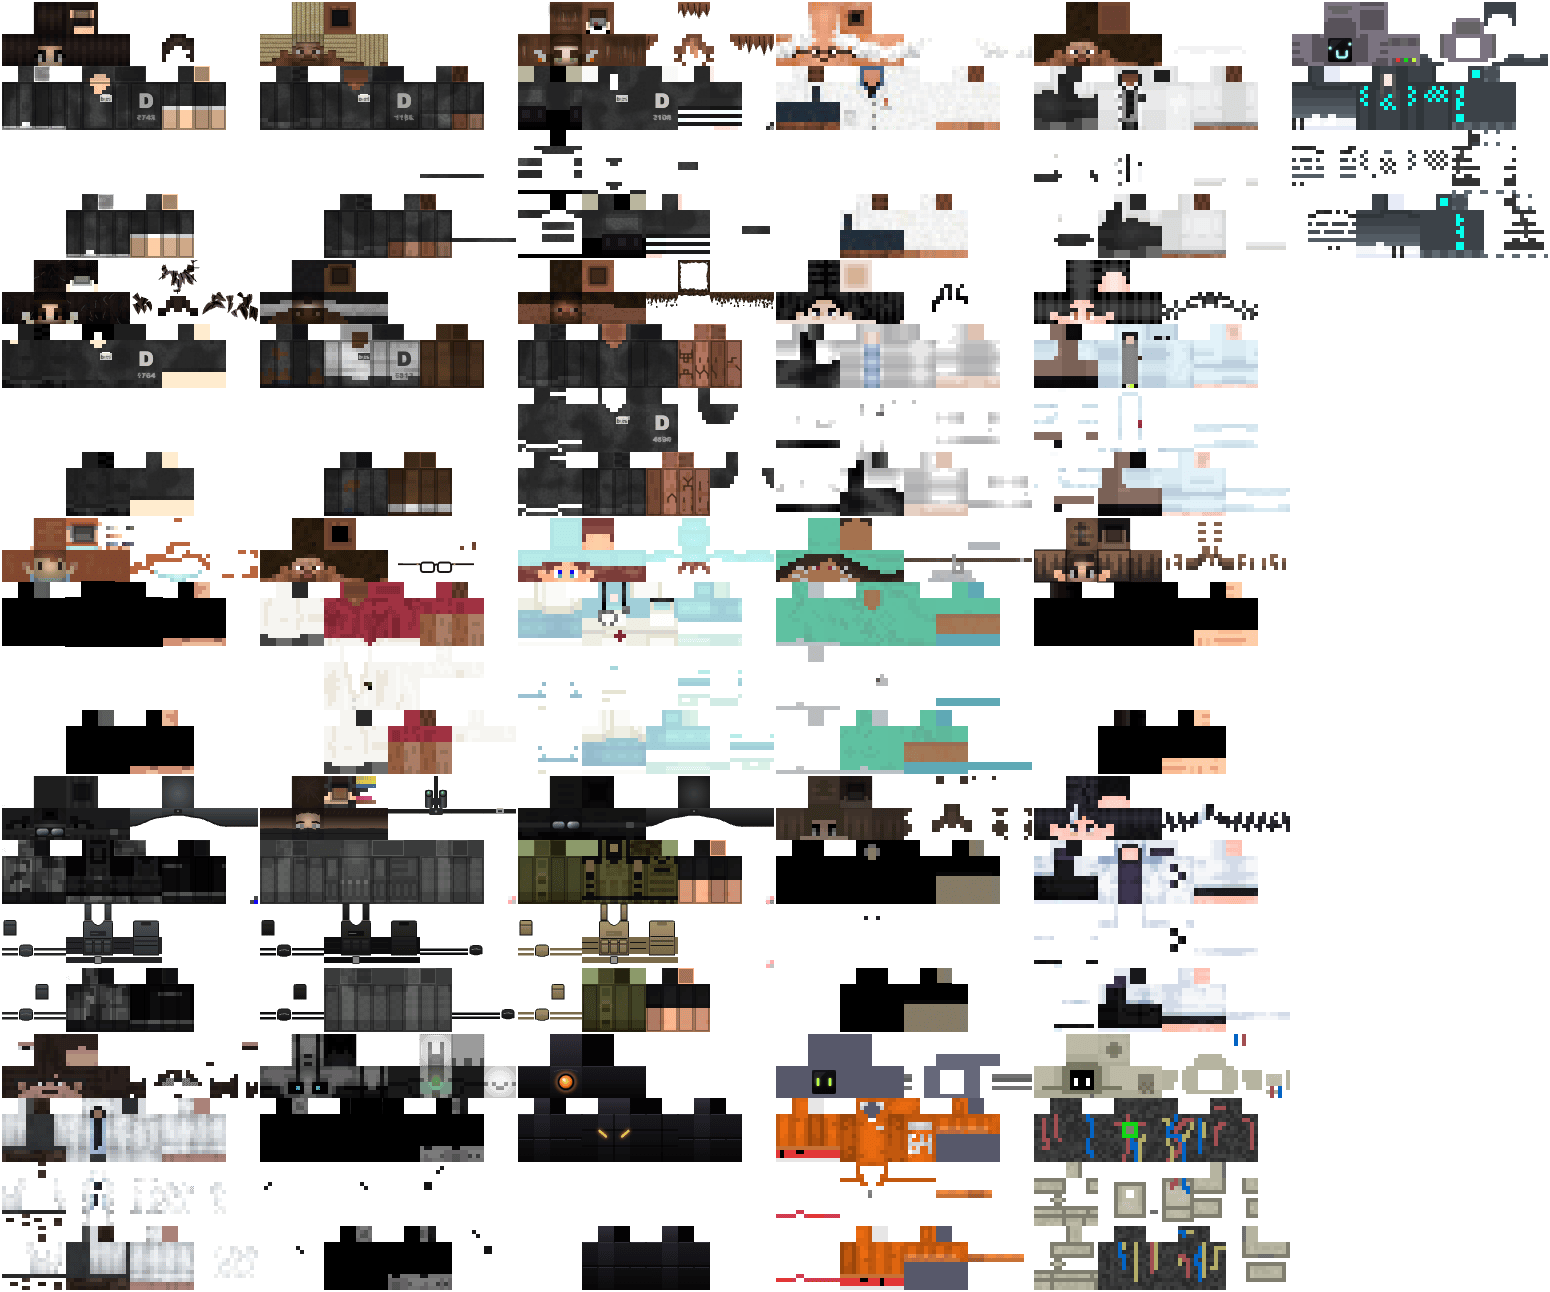
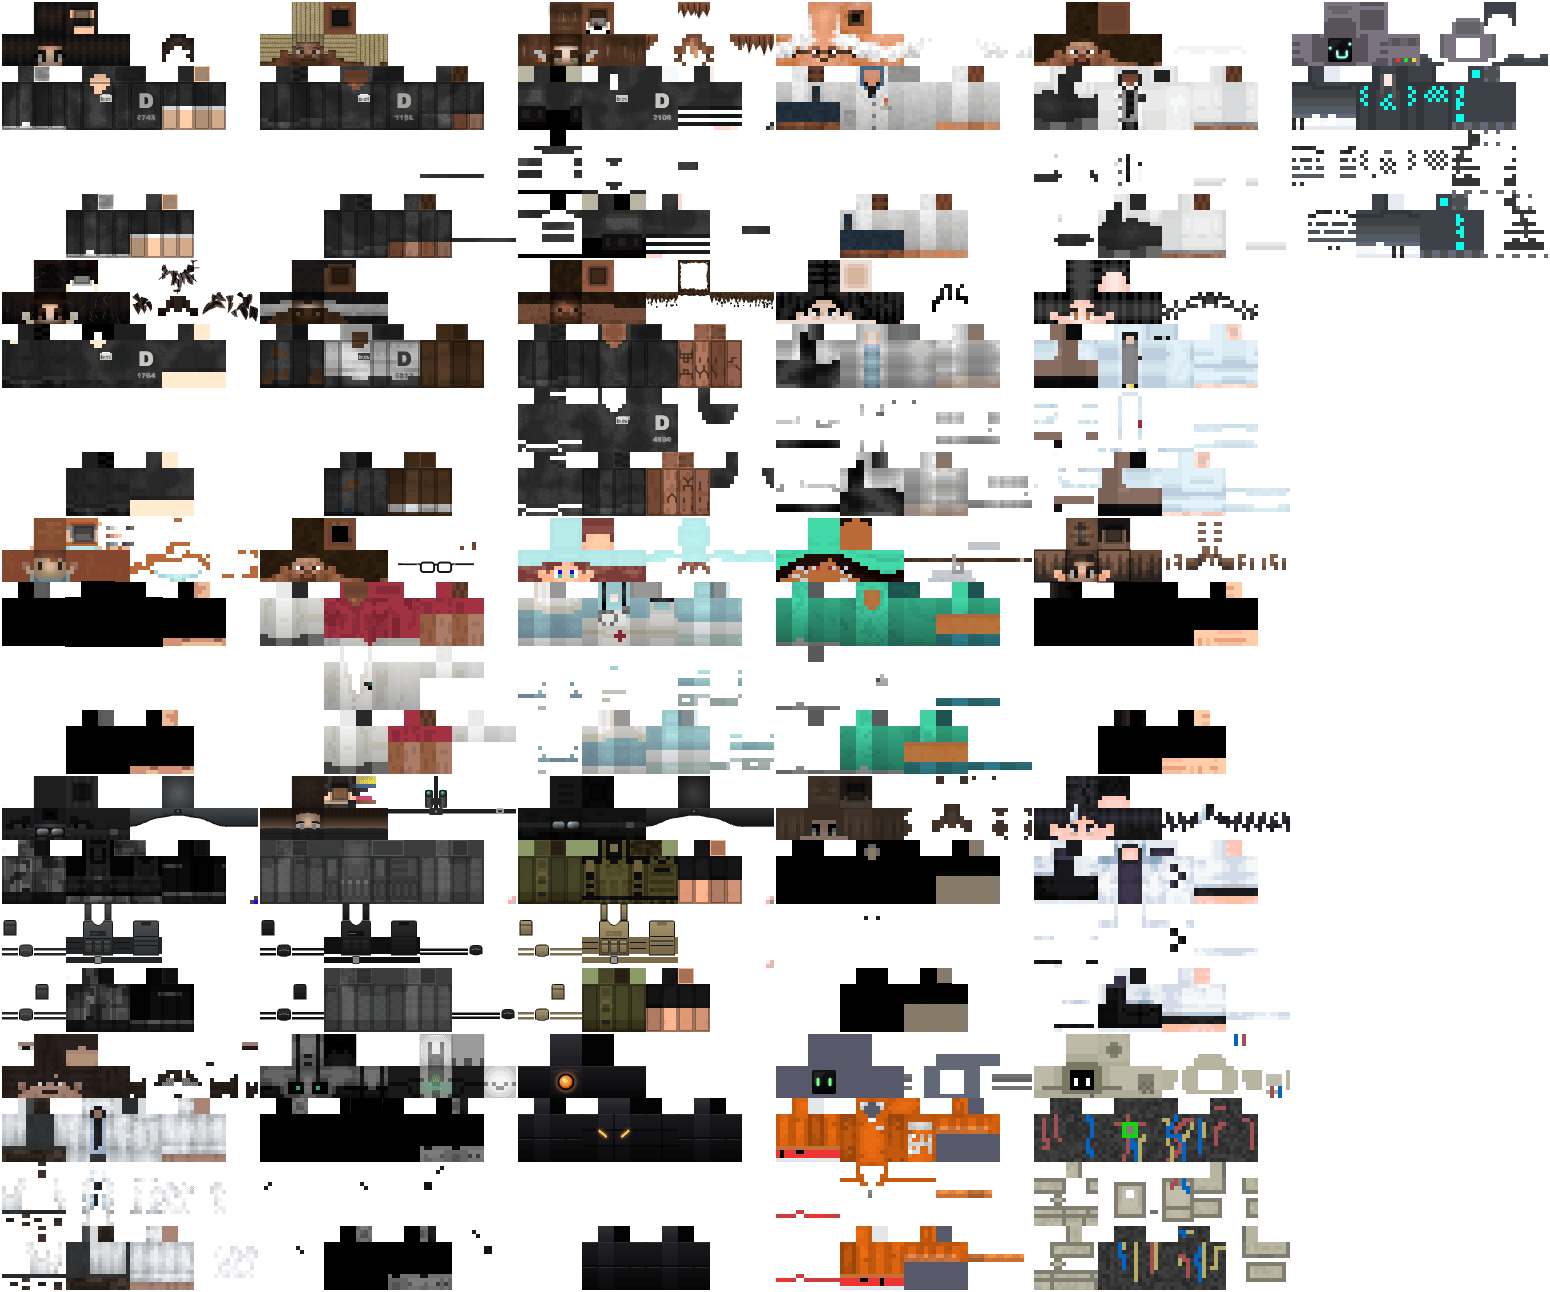
feat: improve medic skins i.e. they were too flat

diff --git a/docs/skins.md b/docs/skins.md
@@ -150,6 +150,8 @@ In skin pixels, as `[x, y]` of a face's top-left corner. Multiply by 4 in the sv
 - A download may hide a watermark in its unused corners (`d-3`). Clear them, above all the base head's (0–8, 0–4).
 - Tattoos drawn in texels read as blotches. Take them out of the embedded image and redraw them as ink: strokes joining neighbouring tattoo texels within a face, dots for lone ones, clipped to the faces (`d-5`).
   - No stroke crosses an elbow or knee, at half a limb's height (texel row 26 for the right arm, 58 for the left). The halves are separate cuboids, so ink across the bend breaks as it bends.
+- Light cloth, e.g. a white coat or pale scrubs, takes form shading only, never a noise texture (`medic-{1..5}`). Each face, base and overlay, takes a gradient darker toward its bottom, its sides, back and underside darker than its front. A multiply group draws it, clipped to the cloth texels (opaque, light, not skin-toned).
+  - Put `mix-blend-mode` on the clipped group itself. A clip isolates the group, so children blending inside it see an empty backdrop, and paint grey.
 - Bare skin takes d-0's per-face shading (its `suit` group), which gives limbs their form. Leave a dark skin out of the contrast filter, which crushes it to black (`d-3`).
 - A D-class suit is grey, whatever the download's colour. It is greyed (`saturation`), darkened (`multiply`) and blotched (`#blotches`), as d-0's is, all clipped to its own suit texels (`suit-pale`, a rect per run).
   - A pale download reads faded beside d-0 and d-1. Raise its contrast and saturation by a filter on its `<image>` (`#punch`), and darken its suit's multiply, e.g. `#707070` (`d-4`).
